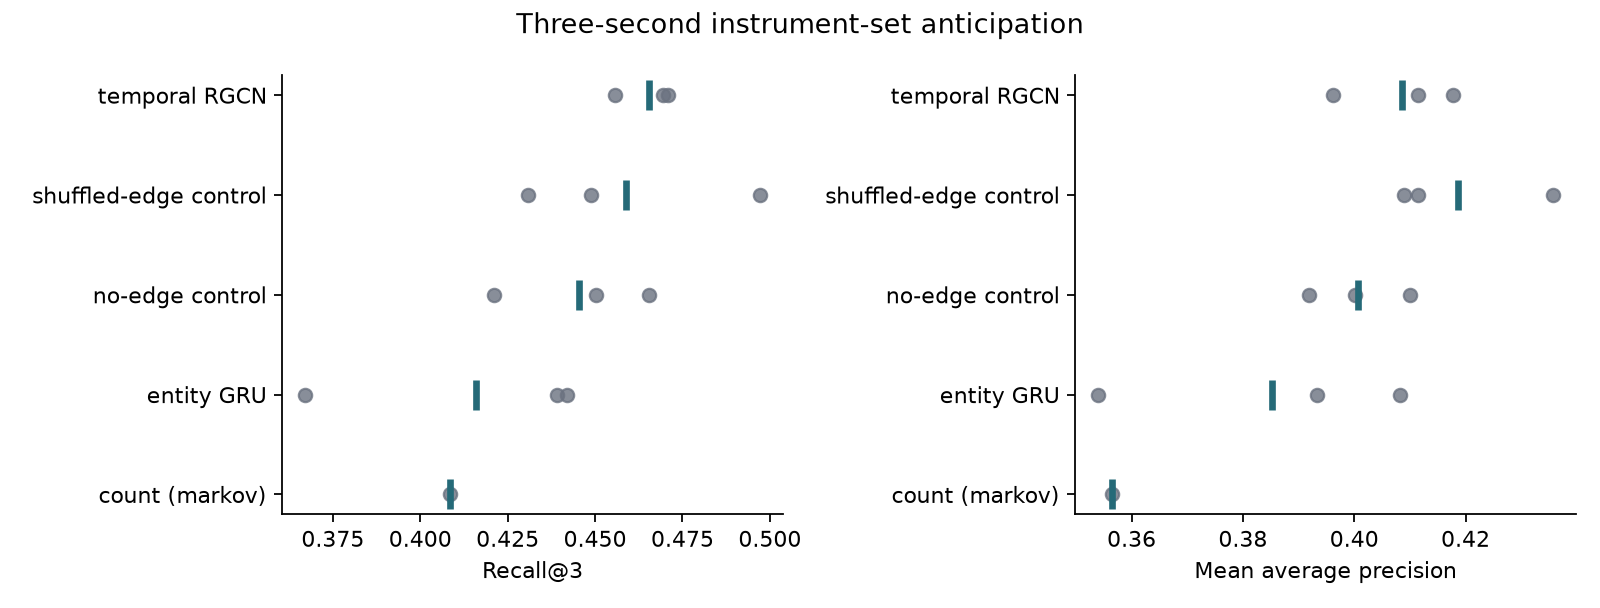
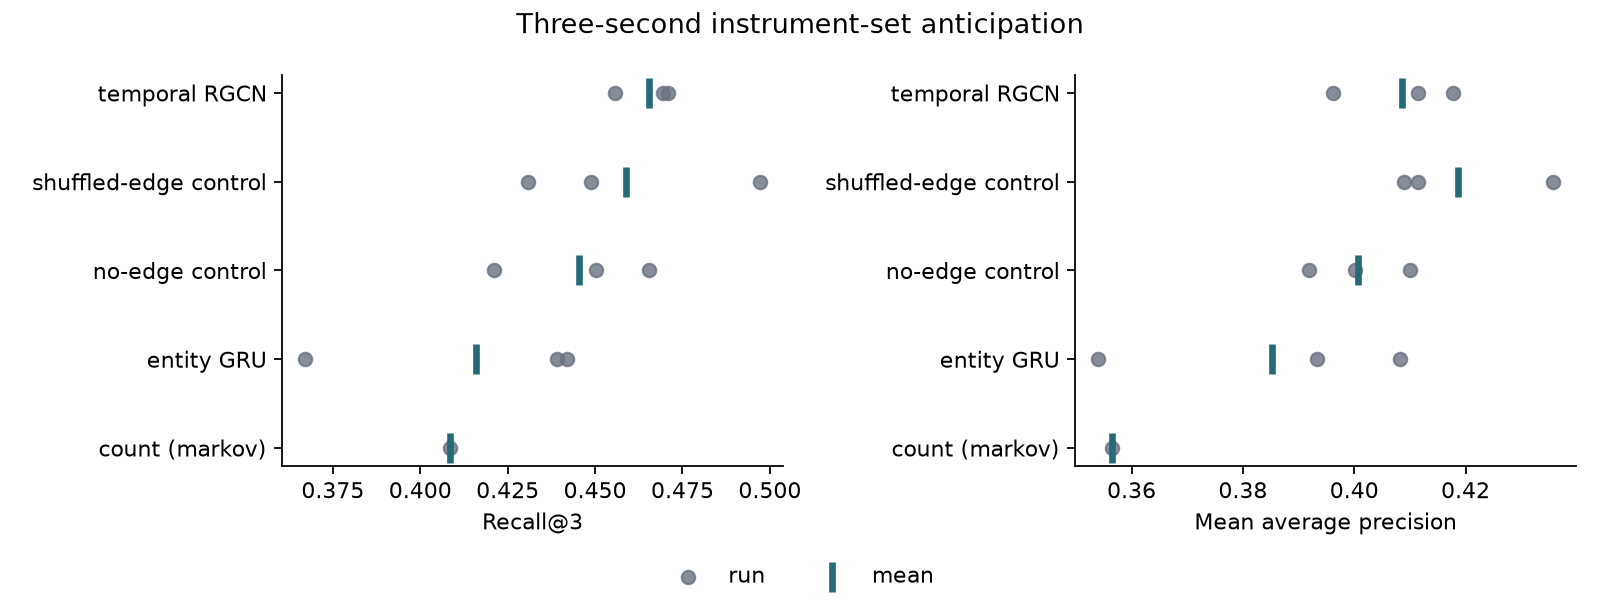
Polish study framing and presentation

diff --git a/README.md b/README.md
@@ -1,13 +1,14 @@
-# Do scene-graph relations help anticipate the next surgical instrument?
+# Relational representations for next-instrument anticipation
 
 Surgical assistance systems must anticipate an instrument before it is needed, not merely
-recognise it once it appears. This small study asks whether the relations in a dynamic
-surgical scene graph add predictive information beyond the recent history of visible
-entities.
+recognise it once it appears. This controlled public-data study examines how a dynamic
+surgical scene-graph model compares with sequence models that use recent entity history.
 
-The work is inspired by MITI's instrument-anticipation research and uses the public CAT-SG
-annotations. It is a focused mechanism study, not a reproduction of MITI's in-house results
-and not evidence for clinical deployment.
+The project is motivated by MITI's work on instrument anticipation, multimodal graph
+representations and surgeon-specific adaptation. It uses the public CAT-SG annotations to
+explore one deliberately narrow representation question. It is not a reproduction or
+assessment of MITI's in-house data, models or robotic system, and it is not evidence for
+clinical deployment.
 
 ## Question
 
@@ -52,19 +53,48 @@ baseline is fitted once).
 | Markov count baseline | 0.152 | 0.409 | 0.357 |
 | Entity GRU | 0.215 | 0.416 | 0.385 |
 | No-edge control | 0.222 | 0.446 | 0.401 |
-| Shuffled-edge control | **0.241** | 0.459 | **0.419** |
-| Temporal RGCN | 0.223 | **0.465** | 0.409 |
+| Shuffled-edge control | 0.241 | 0.459 | 0.419 |
+| Temporal RGCN | 0.223 | 0.465 | 0.409 |
 
-The temporal RGCN improved over the entity GRU by 0.049 Recall@3 and 0.023 mAP, but paired
-hierarchical 95% bootstrap intervals over test procedures and training seeds crossed zero
-(-0.008 to 0.115 and -0.013 to 0.062, respectively). The no-edge model recovered most of
-the gain, while shuffled edges slightly outperformed the correct graph on mAP. The evidence
-therefore does **not** support the claim that correct relational topology adds predictive
-information in this setup. It does suggest that richer entity processing or relation-activity
-statistics deserve more targeted investigation. The singleton-only sensitivity analysis
-gave the same ordering.
+The temporal RGCN produced higher point estimates than the entity GRU by 0.049 Recall@3 and
+0.023 mAP. Paired hierarchical 95% bootstrap intervals over test procedures and training
+seeds included zero (-0.008 to 0.115 and -0.013 to 0.062, respectively), while the no-edge
+and shuffled-edge controls remained close to the full model. Within this setup, the
+topology-specific contribution therefore could not be isolated. The singleton-only
+sensitivity analysis produced the same ordering.
+
+This conclusion is intentionally local to the dataset, event definition, horizon and model
+used here. CAT-SG supplies idealised annotations from a highly standardised procedure; it
+does not provide the multimodal real-time signals, surgeon identity or clinical context for
+which richer graph representations are designed.
 
 ![Primary model comparison](figures/02_primary_model_comparison.png)
+
+*Grey circles are individual runs; teal markers are condition means. The deterministic
+Markov baseline is fitted once.*
+
+Machine-readable outputs: [model comparison](results/02_model_comparison.csv) and
+[bootstrap intervals](results/02_bootstrap_intervals.csv).
+
+## Relation to MITI and follow-up question
+
+Scene graphs are a natural representation for combining heterogeneous entities, actions,
+spatial relationships and data modalities in an operating room. The MITI studies cited
+below pursue that substantially richer setting. This experiment instead isolates a small
+part of the problem with public annotations and demonstrates a controlled comparison using
+no-edge and shuffled-edge conditions.
+
+The most informative follow-up is not a broader claim for or against graphs, but a more
+targeted question:
+
+> Under which surgical conditions and with which modalities do structured relational
+> representations provide information complementary to procedural history and
+> surgeon-specific preferences?
+
+One hypothesis raised by the results is that relational context may be most informative at
+locally ambiguous transitions, while routine transitions are already captured by sequence
+priors. Testing that hypothesis would require richer data and clinical context and is beyond
+the scope of this repository.
 
 ## Scope
 
@@ -81,8 +111,8 @@ are valuable extensions, but not part of the primary experiment:
 
 | Notebook | Purpose |
 |---|---|
-| `01_task_definition_and_dataset_audit.ipynb` | Audit CAT-SG, define anticipation events using training data only, and freeze the evaluation cohort. |
-| `02_relational_model_comparison.ipynb` | Train the baselines and graph model, run both topology controls, and report the predefined comparison with uncertainty. |
+| [Task definition and dataset audit](notebooks/01_task_definition_and_dataset_audit.ipynb) | Audit CAT-SG, define anticipation events using training data only, and freeze the evaluation cohort. |
+| [Relational model comparison](notebooks/02_relational_model_comparison.ipynb) | Train the baselines and graph model, run both topology controls, and report the predefined comparison with uncertainty. |
 
 The notebooks are written as concise, executable narratives. Findings are added only after
 the corresponding experiment has been run.
@@ -112,6 +142,13 @@ uv sync --locked
 uv run jupyter lab notebooks/
 ```
 
+To reproduce the committed outputs non-interactively:
+
+```bash
+uv run jupyter nbconvert --to notebook --execute --inplace notebooks/01_task_definition_and_dataset_audit.ipynb
+uv run jupyter nbconvert --to notebook --execute --inplace notebooks/02_relational_model_comparison.ipynb
+```
+
 The repository includes the executed notebooks, figures and compact result files, but not
 data or trained model weights.
 
@@ -124,6 +161,7 @@ data or trained model weights.
 ├── results/       # compact machine-readable results
 ├── data/          # local CAT-SG annotations; gitignored
 ├── pyproject.toml
+├── uv.lock
 └── README.md
 ```
 
